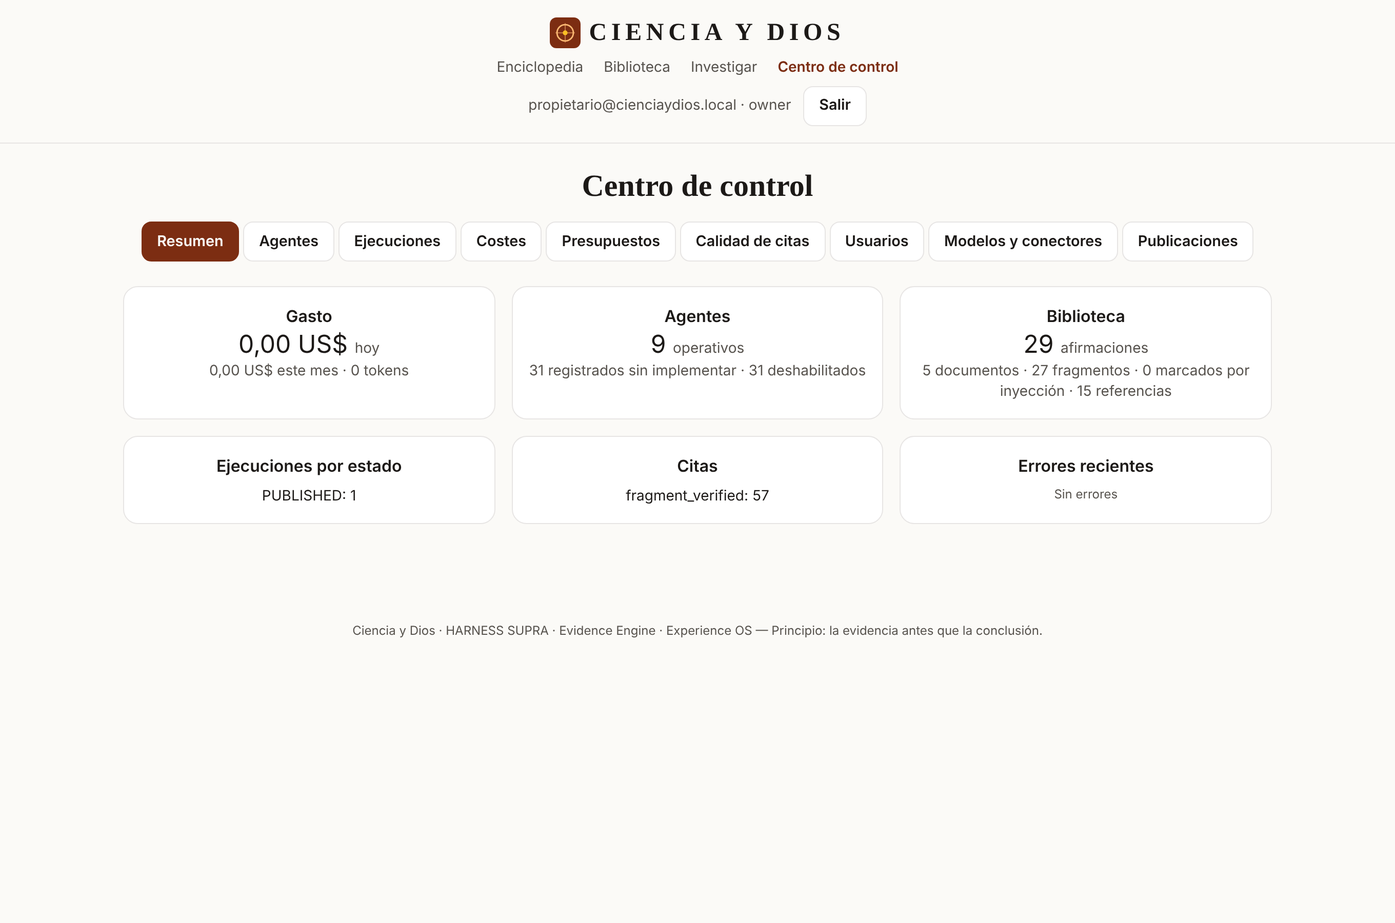
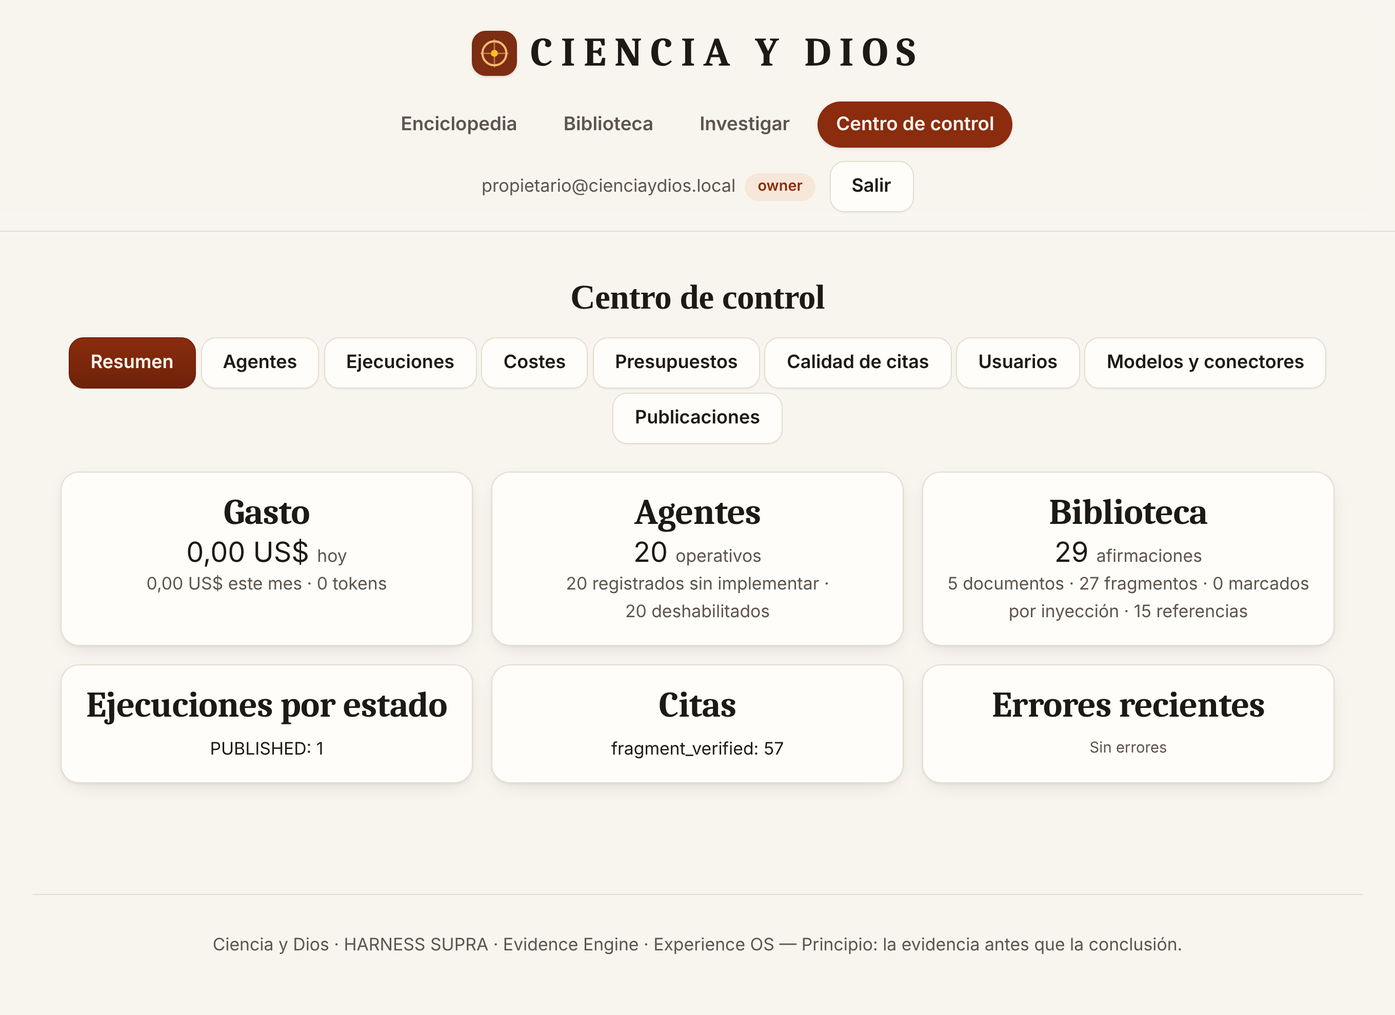
style(web): diseño más legible y cuidado en toda la web
- Letra base de 18 px (17 en móvil, 19 en pantallas grandes) y textos pequeños más legibles.
- Tipografía editorial para títulos y contenido, sans para la interfaz; más interlineado.
- Botones y campos más grandes (≥ 44 px), sombras suaves, foco visible y modo oscuro afinado.
- Cabecera fija con marca más grande y navegación en píldoras con la página activa.
- Página Entrar: subtítulo, selector «Ya tengo cuenta / Soy nuevo» y mensajes en recuadros.
- Portada con titular grande y tarjetas de áreas más amplias; etiquetas del mapa legibles.
- Capturas de la documentación actualizadas.

Claude-Session: https://claude.ai/code/session_012HkgCTLdcD8TMbisAVNTsT

diff --git a/apps/web/app/globals.css b/apps/web/app/globals.css
@@ -2,8 +2,68 @@
 
 @custom-variant dark (&:where(.dark, .dark *));
 
-/* Diseño centrado. Va en @layer base para que cualquier utilidad de Tailwind (text-left, justify-start…) pueda anularlo. */
+/* Textos pequeños más legibles en toda la web (sobre una base de 18 px) */
+@theme {
+  --text-xs: 0.8125rem;   --text-xs--line-height: 1.55;   /* ≈ 14.6 px */
+  --text-sm: 0.9375rem;   --text-sm--line-height: 1.6;    /* ≈ 16.9 px */
+  --text-base: 1rem;      --text-base--line-height: 1.7;  /* 18 px */
+  --text-lg: 1.15rem;     --text-lg--line-height: 1.65;
+}
+
+/* =====================================================================
+   CIENCIA Y DIOS — sistema visual
+   Tipografía editorial (serif) para el contenido y sans para la interfaz.
+   Todos los tamaños de Tailwind son rem: al subir la base a 18 px crece todo el texto.
+   ===================================================================== */
+
+:root {
+  --bg: #f8f5ef;           /* papel cálido */
+  --bg-2: #f1ebe0;
+  --fg: #1d1a16;
+  --muted: #5d554b;
+  --card: #fffdf9;
+  --line: #e4dccf;
+  --accent: #8a2c0d;       /* granate */
+  --accent-strong: #6e220a;
+  --accent-2: #c2770f;     /* oro */
+  --accent-soft: #f6e7d8;
+  --ring: #d99a2b;
+  --shadow: 0 1px 2px rgba(60, 40, 20, .06), 0 6px 20px -8px rgba(60, 40, 20, .18);
+  --shadow-lg: 0 2px 4px rgba(60, 40, 20, .06), 0 18px 40px -16px rgba(60, 40, 20, .28);
+  --radius: 1rem;
+  --font-serif: "Iowan Old Style", "Palatino Linotype", Palatino, "Book Antiqua", Georgia, Cambria, "Times New Roman", serif;
+  --font-sans: "Segoe UI Variable Text", "Segoe UI", system-ui, -apple-system, "Helvetica Neue", Arial, sans-serif;
+}
+@media (prefers-color-scheme: dark) {
+  :root {
+    --bg: #12100e; --bg-2: #1a1714; --fg: #f3eee7; --muted: #b3a99c; --card: #1d1a17; --line: #34302b;
+    --accent: #f0a26c; --accent-strong: #f7b98c; --accent-2: #f2c14e; --accent-soft: #3a2619; --ring: #f2c14e;
+    --shadow: 0 1px 2px rgba(0, 0, 0, .4), 0 8px 24px -10px rgba(0, 0, 0, .6);
+    --shadow-lg: 0 2px 4px rgba(0, 0, 0, .4), 0 20px 44px -18px rgba(0, 0, 0, .7);
+  }
+}
+
 @layer base {
+  html { font-size: 112.5%; -webkit-text-size-adjust: 100%; }          /* 18 px */
+  @media (min-width: 1600px) { html { font-size: 118.75%; } }          /* 19 px en pantallas grandes */
+  @media (max-width: 480px) { html { font-size: 106.25%; } }           /* 17 px en móvil */
+  html { background: var(--bg); color: var(--fg); }
+  body {
+    font-family: var(--font-serif); line-height: 1.7; text-rendering: optimizeLegibility;
+    -webkit-font-smoothing: antialiased;
+    background:
+      radial-gradient(1200px 500px at 50% -200px, var(--accent-soft), transparent 70%),
+      var(--bg);
+  }
+  h1, h2, h3 { font-family: var(--font-serif); color: var(--fg); letter-spacing: -0.01em; line-height: 1.2; text-wrap: balance; }
+  h1 { font-size: clamp(2.1rem, 1.4rem + 2.4vw, 3.2rem); font-weight: 700; }
+  h2 { font-size: clamp(1.5rem, 1.2rem + 1vw, 2rem); font-weight: 650; }
+  h3 { font-size: 1.3rem; font-weight: 650; }
+  p { text-wrap: pretty; }
+  a { text-underline-offset: 3px; }
+  ::selection { background: var(--accent-2); color: #1d1a16; }
+
+  /* Diseño centrado (las utilidades de Tailwind pueden anularlo) */
   main, footer { text-align: center; }
   main .flex-wrap, main [role="tablist"], main [role="group"] { justify-content: center; }
   main [class*="max-w-"] { margin-left: auto; margin-right: auto; }
@@ -12,28 +72,58 @@
   main table, main blockquote, main .list-disc, main .prose-left, main input, main textarea, main select { text-align: left; }
   main .list-disc { width: fit-content; max-width: 48rem; margin-left: auto; margin-right: auto; }
   main table { margin-left: auto; margin-right: auto; }
+  main table th { font-family: var(--font-sans); font-size: .82rem; text-transform: uppercase; letter-spacing: .06em; color: var(--muted); }
+  main table td, main table th { padding: .6rem .7rem !important; }
+  main table tr { border-color: var(--line); }
+  main blockquote { line-height: 1.65; }
 }
 
-:root {
-  --bg: #fbfaf7; --fg: #1c1917; --muted: #57534e; --card: #ffffff; --line: #e7e5e4; --accent: #7c2d12; --accent-2: #b45309;
-}
-@media (prefers-color-scheme: dark) {
-  :root { --bg: #0f0e0d; --fg: #f5f5f4; --muted: #a8a29e; --card: #1c1917; --line: #292524; --accent: #fdba74; --accent-2: #fbbf24; }
-}
-html { background: var(--bg); color: var(--fg); }
-body { font-family: ui-serif, Georgia, "Times New Roman", serif; }
-.ui { font-family: ui-sans-serif, system-ui, -apple-system, "Segoe UI", sans-serif; }
-.card { background: var(--card); border: 1px solid var(--line); border-radius: 0.9rem; }
+/* ---------- utilidades del proyecto ---------- */
+.ui { font-family: var(--font-sans); }
 .muted { color: var(--muted); }
 .accent { color: var(--accent); }
-.btn { font-family: ui-sans-serif, system-ui, sans-serif; display: inline-flex; align-items: center; gap: .4rem; border-radius: .6rem;
-  padding: .5rem .9rem; font-size: .9rem; font-weight: 600; border: 1px solid var(--line); background: var(--card); cursor: pointer; }
-.btn:hover { border-color: var(--accent); }
-.btn:disabled { opacity: .5; cursor: not-allowed; }
-.btn-primary { background: var(--accent); color: var(--bg); border-color: var(--accent); }
-.btn-primary:hover { filter: brightness(1.08); }
-.input { font-family: ui-sans-serif, system-ui, sans-serif; width: 100%; border: 1px solid var(--line); background: var(--card);
-  border-radius: .6rem; padding: .55rem .75rem; }
-.chip { font-family: ui-sans-serif, system-ui, sans-serif; font-size: .72rem; font-weight: 600; border-radius: 999px; padding: .12rem .55rem; display: inline-block; }
-:focus-visible { outline: 3px solid var(--accent-2); outline-offset: 2px; }
+
+.card {
+  background: var(--card); border: 1px solid var(--line); border-radius: var(--radius);
+  box-shadow: var(--shadow); transition: box-shadow .2s ease, transform .2s ease, border-color .2s ease;
+}
+a.card:hover, button.card:hover:not(:disabled) { box-shadow: var(--shadow-lg); border-color: color-mix(in srgb, var(--accent) 35%, var(--line)); transform: translateY(-2px); }
+
+.btn {
+  font-family: var(--font-sans); display: inline-flex; align-items: center; justify-content: center; gap: .45rem;
+  min-height: 2.75rem; padding: .6rem 1.15rem; border-radius: .8rem; font-size: 1rem; font-weight: 600; line-height: 1.2;
+  border: 1px solid var(--line); background: var(--card); color: var(--fg); cursor: pointer;
+  box-shadow: 0 1px 1px rgba(60, 40, 20, .05);
+  transition: background .15s ease, border-color .15s ease, transform .15s ease, box-shadow .15s ease;
+}
+.btn:hover:not(:disabled) { border-color: var(--accent); color: var(--accent); transform: translateY(-1px); box-shadow: var(--shadow); }
+.btn:active:not(:disabled) { transform: translateY(0); }
+.btn:disabled { opacity: .55; cursor: not-allowed; }
+.btn-primary {
+  background: linear-gradient(180deg, var(--accent), var(--accent-strong)); color: #fff8f0; border-color: var(--accent-strong);
+}
+.btn-primary:hover:not(:disabled) { color: #fff; filter: brightness(1.07); }
+@media (prefers-color-scheme: dark) { .btn-primary, .btn-primary:hover:not(:disabled) { color: #1d1208; } }
+
+.input {
+  font-family: var(--font-sans); width: 100%; min-height: 3rem; font-size: 1.05rem; color: var(--fg);
+  border: 1.5px solid var(--line); background: var(--card); border-radius: .8rem; padding: .7rem .95rem;
+  transition: border-color .15s ease, box-shadow .15s ease;
+}
+.input::placeholder { color: color-mix(in srgb, var(--muted) 75%, transparent); }
+.input:hover { border-color: color-mix(in srgb, var(--accent) 30%, var(--line)); }
+.input:focus { outline: none; border-color: var(--accent); box-shadow: 0 0 0 4px color-mix(in srgb, var(--ring) 30%, transparent); }
+textarea.input { line-height: 1.6; }
+select.input { width: auto; cursor: pointer; }
+
+.chip {
+  font-family: var(--font-sans); font-size: .8rem; font-weight: 600; line-height: 1.4; border-radius: 999px;
+  padding: .2rem .7rem; display: inline-block; vertical-align: middle;
+}
+
+/* Etiquetas de formulario */
+label.block { font-family: var(--font-sans); font-weight: 600; }
+label input[type="checkbox"], label input[type="radio"] { width: 1.15rem; height: 1.15rem; accent-color: var(--accent); }
+
+:focus-visible { outline: 3px solid var(--ring); outline-offset: 3px; border-radius: .4rem; }
 @media (prefers-reduced-motion: reduce) { * { transition: none !important; animation: none !important; } }

diff --git a/apps/web/app/entrar/page.tsx b/apps/web/app/entrar/page.tsx
@@ -7,7 +7,7 @@ import { useAuth } from "@/lib/auth";
 function explain(raw: string): string {
   const m = raw.toLowerCase();
   if (m.includes("invalid login credentials"))
-    return "Correo o contraseña incorrectos, o la cuenta todavía no existe. Si es tu primera vez, usa «Crear cuenta».";
+    return "Correo o contraseña incorrectos, o la cuenta todavía no existe. Si es tu primera vez, usa la pestaña «Soy nuevo».";
   if (m.includes("email not confirmed"))
     return "Tu cuenta existe pero falta confirmar el correo. Abre el enlace que te enviamos o pulsa «Reenviar confirmación».";
   if (m.includes("already registered")) return "Ya existe una cuenta con ese correo. Usa «Entrar».";
@@ -51,30 +51,39 @@ export default function Entrar() {
   });
 
   return (
-    <div className="mx-auto max-w-md">
-      <h1 className="text-3xl font-bold">{mode === "login" ? "Entrar" : "Crear cuenta"}</h1>
+    <div className="mx-auto max-w-lg">
+      <h1>{mode === "login" ? "Entrar" : "Crear cuenta"}</h1>
+      <p className="muted mt-2 text-lg">
+        {mode === "login" ? "Accede para investigar, guardar tu progreso y consultar tus fuentes."
+          : "Crea tu cuenta gratuita. Te enviaremos un correo para confirmarla."}
+      </p>
       {supabase ? (
         <>
-          <div className="ui mt-4 flex justify-center gap-2" role="tablist">
-            <button role="tab" aria-selected={mode === "login"} className={`btn ${mode === "login" ? "btn-primary" : ""}`}
-              onClick={() => { setMode("login"); setMsg(null); }} data-testid="tab-login">Ya tengo cuenta</button>
-            <button role="tab" aria-selected={mode === "signup"} className={`btn ${mode === "signup" ? "btn-primary" : ""}`}
-              onClick={() => { setMode("signup"); setMsg(null); }} data-testid="tab-signup">Soy nuevo</button>
+          <div className="ui mx-auto mt-6 inline-flex rounded-full border p-1" role="tablist"
+            style={{ borderColor: "var(--line)", background: "var(--bg-2)" }}>
+            {(["login", "signup"] as const).map((m) => (
+              <button key={m} role="tab" aria-selected={mode === m} data-testid={m === "login" ? "tab-login" : "tab-signup"}
+                onClick={() => { setMode(m); setMsg(null); }}
+                className="rounded-full px-5 py-2 text-base font-semibold transition"
+                style={mode === m ? { background: "var(--card)", color: "var(--accent)", boxShadow: "var(--shadow)" } : { color: "var(--muted)" }}>
+                {m === "login" ? "Ya tengo cuenta" : "Soy nuevo"}
+              </button>
+            ))}
           </div>
-          <form className="ui card mt-4 space-y-3 p-5" onSubmit={(e) => { e.preventDefault(); submit(); }}>
-            <label className="block text-sm">Correo
-              <input className="input mt-1" type="email" autoComplete="email" required value={email} onChange={(e) => setEmail(e.target.value.trim())} />
+          <form className="ui card mt-5 space-y-5 p-6 text-left sm:p-8" onSubmit={(e) => { e.preventDefault(); submit(); }}>
+            <label className="block text-base">Correo electrónico
+              <input className="input mt-2" type="email" placeholder="tu@correo.com" autoComplete="email" required value={email} onChange={(e) => setEmail(e.target.value.trim())} />
             </label>
-            <label className="block text-sm">Contraseña {mode === "signup" && <span className="muted">(mínimo 8 caracteres)</span>}
-              <input className="input mt-1" type={show ? "text" : "password"} autoComplete={mode === "login" ? "current-password" : "new-password"}
+            <label className="block text-base">Contraseña {mode === "signup" && <span className="muted font-normal">(mínimo 8 caracteres)</span>}
+              <input className="input mt-2" type={show ? "text" : "password"} placeholder="••••••••" autoComplete={mode === "login" ? "current-password" : "new-password"}
                 required minLength={8} value={password} onChange={(e) => setPassword(e.target.value)} />
             </label>
-            <label className="flex items-center justify-center gap-2 text-xs"><input type="checkbox" checked={show} onChange={(e) => setShow(e.target.checked)} /> Mostrar contraseña</label>
-            <button className="btn btn-primary w-full justify-center" disabled={busy} data-testid="submit-auth">
+            <label className="muted flex cursor-pointer items-center gap-2 text-sm"><input type="checkbox" checked={show} onChange={(e) => setShow(e.target.checked)} /> Mostrar contraseña</label>
+            <button className="btn btn-primary w-full py-3 text-lg" disabled={busy} data-testid="submit-auth">
               {busy ? "Un momento…" : mode === "login" ? "Entrar" : "Crear cuenta"}
             </button>
             {mode === "login" && (
-              <div className="flex flex-wrap justify-center gap-3 text-xs">
+              <div className="flex flex-wrap justify-center gap-x-5 gap-y-2 border-t pt-4 text-sm" style={{ borderColor: "var(--line)" }}>
                 <button type="button" className="underline" disabled={!email || busy}
                   onClick={() => run(async () => { await resendConfirmation(email); setMsg({ kind: "ok", text: `Correo de confirmación reenviado a ${email}.` }); })}>
                   Reenviar confirmación</button>
@@ -89,10 +98,12 @@ export default function Entrar() {
         <p className="ui muted mt-4 text-sm">Supabase Auth no está configurado en este despliegue (NEXT_PUBLIC_SUPABASE_URL).</p>
       )}
       {msg && <p role={msg.kind === "error" ? "alert" : "status"} data-testid="auth-message"
-        className={`ui mt-4 text-sm ${msg.kind === "error" ? "text-rose-700" : "text-emerald-700"}`}>{msg.text}</p>}
+        className={`ui mx-auto mt-5 max-w-lg rounded-xl border px-4 py-3 text-base ${msg.kind === "error"
+          ? "border-rose-300 bg-rose-50 text-rose-800 dark:border-rose-800 dark:bg-rose-950/40 dark:text-rose-200"
+          : "border-emerald-300 bg-emerald-50 text-emerald-800 dark:border-emerald-800 dark:bg-emerald-950/40 dark:text-emerald-200"}`}>{msg.text}</p>}
       {devAuth && (
-        <div className="ui card mt-6 p-5">
-          <p className="text-sm font-semibold">Modo desarrollo</p>
+        <div className="ui card mt-8 p-6">
+          <p className="font-semibold">Modo desarrollo</p>
           <p className="muted text-xs">Tokens locales firmados por la API; deshabilitados en staging y producción.</p>
           <div className="mt-3 flex flex-wrap gap-2">
             <button className="btn" data-testid="dev-owner" onClick={() => run(async () => { await signInDev("owner"); router.push("/investigar"); })}>Propietario</button>

diff --git a/apps/web/components/Nav.tsx b/apps/web/components/Nav.tsx
@@ -12,31 +12,40 @@ const LINKS = [
 export function Nav() {
   const { session, signOut } = useAuth();
   const path = usePathname();
+  const links = session?.role === "owner" ? [...LINKS, { href: "/admin", label: "Centro de control" }] : LINKS;
+  const isActive = (href: string) => (href === "/" ? path === "/" || path?.startsWith("/areas") : path?.startsWith(href));
   return (
-    <header className="ui border-b" style={{ borderColor: "var(--line)" }}>
-      <nav className="mx-auto flex max-w-6xl flex-col items-center gap-2 px-4 py-4 text-center" aria-label="Principal">
-        <Link href="/" className="flex items-center gap-2 text-2xl font-bold tracking-[0.18em]" style={{ fontFamily: "ui-serif, Georgia, serif" }}>
-          <img src="/icon.svg" alt="" width={30} height={30} /> CIENCIA Y DIOS
+    <header className="ui sticky top-0 z-30 border-b backdrop-blur-md"
+      style={{ borderColor: "var(--line)", background: "color-mix(in srgb, var(--bg) 82%, transparent)" }}>
+      <nav className="mx-auto flex max-w-6xl flex-col items-center gap-3 px-4 py-4 text-center" aria-label="Principal">
+        <Link href="/" className="flex items-center gap-3 text-[1.9rem] font-bold tracking-[0.2em] sm:text-[2.2rem]"
+          style={{ fontFamily: "var(--font-serif)" }}>
+          <img src="/icon.svg" alt="" width={44} height={44} className="rounded-xl shadow-sm" /> CIENCIA Y DIOS
         </Link>
-        <div className="flex flex-wrap items-center justify-center gap-x-5 gap-y-2">
-        {LINKS.map((l) => (
-          <Link key={l.href} href={l.href} aria-current={path === l.href ? "page" : undefined}
-            className={`text-sm ${path === l.href ? "accent font-semibold" : "muted hover:underline"}`}>{l.label}</Link>
-        ))}
-        {session?.role === "owner" && (
-          <Link href="/admin" className={`text-sm ${path?.startsWith("/admin") ? "accent font-semibold" : "muted hover:underline"}`}>
-            Centro de control
-          </Link>
-        )}
+        <div className="flex flex-wrap items-center justify-center gap-2">
+          {links.map((l) => {
+            const on = isActive(l.href);
+            return (
+              <Link key={l.href} href={l.href} aria-current={on ? "page" : undefined}
+                className={`rounded-full px-4 py-1.5 text-[1.02rem] font-semibold transition ${on
+                  ? "shadow-sm" : "muted hover:bg-[var(--accent-soft)] hover:text-[var(--accent)]"}`}
+                style={on ? { background: "var(--accent)", color: "var(--bg)" } : undefined}>
+                {l.label}
+              </Link>
+            );
+          })}
         </div>
-        <div className="flex flex-wrap items-center justify-center gap-3 text-sm">
+        <div className="flex flex-wrap items-center justify-center gap-3 text-[0.95rem]">
           {session ? (
             <>
-              <span className="muted" data-testid="session-email">{session.email ?? session.userId.slice(0, 8)} · {session.role}</span>
+              <span className="muted" data-testid="session-email">
+                {session.email ?? session.userId.slice(0, 8)}
+                <span className="chip ml-2" style={{ background: "var(--accent-soft)", color: "var(--accent)" }}>{session.role}</span>
+              </span>
               <button className="btn" onClick={signOut}>Salir</button>
             </>
           ) : (
-            <Link className="btn" href="/entrar">Entrar</Link>
+            <Link className="btn btn-primary" href="/entrar">Entrar</Link>
           )}
         </div>
       </nav>

diff --git a/apps/web/app/page.tsx b/apps/web/app/page.tsx
@@ -13,27 +13,27 @@ export default function Home() {
   useEffect(() => { api<Topic[]>("/v1/topics").then(setTopics).catch(() => setTopics([])); }, []);
   return (
     <div>
-      <section className="py-10 text-center">
-        <p className="ui accent text-sm font-semibold uppercase tracking-widest">Enciclopedia universal inteligente</p>
-        <h1 className="mt-2 text-4xl font-bold leading-tight md:text-5xl">CIENCIA Y DIOS</h1>
-        <p className="mt-3 text-2xl md:text-3xl">La evidencia antes que la conclusión.</p>
-        <p className="muted mx-auto mt-4 max-w-3xl text-lg">
+      <section className="py-8 text-center sm:py-14">
+        <p className="ui accent text-sm font-semibold uppercase tracking-[0.25em]">Enciclopedia universal inteligente</p>
+        <h1 className="mt-3 tracking-[0.08em]" style={{ fontSize: "clamp(2.6rem, 1.6rem + 4vw, 4.4rem)" }}>CIENCIA Y DIOS</h1>
+        <p className="accent mt-3 text-2xl italic md:text-3xl">La evidencia antes que la conclusión.</p>
+        <p className="muted mx-auto mt-5 max-w-3xl text-xl leading-relaxed">
           Investiga las grandes preguntas sobre Dios, el universo, la vida y la conciencia. Cada afirmación muestra
           su categoría epistémica, sus fuentes verificables, las posturas en disputa y lo que todavía no sabemos.
         </p>
-        <form className="ui mx-auto mt-6 flex max-w-2xl gap-2" onSubmit={(e) => { e.preventDefault(); router.push(`/biblioteca?q=${encodeURIComponent(q)}`); }}>
+        <form className="ui mx-auto mt-8 flex max-w-2xl flex-col gap-3 sm:flex-row" onSubmit={(e) => { e.preventDefault(); router.push(`/biblioteca?q=${encodeURIComponent(q)}`); }}>
           <input className="input" value={q} onChange={(e) => setQ(e.target.value)} placeholder="Buscar en la biblioteca: p. ej. «Códice de Alepo»" aria-label="Buscar" />
-          <button className="btn btn-primary" disabled={q.trim().length < 2}>Buscar</button>
+          <button className="btn btn-primary px-7" disabled={q.trim().length < 2}>Buscar</button>
         </form>
-        <div className="mt-4"><Link href="/investigar" className="ui underline">o lanza una investigación con el HARNESS →</Link></div>
+        <div className="mt-5"><Link href="/investigar" className="ui accent text-lg font-semibold underline">o lanza una investigación con el HARNESS →</Link></div>
       </section>
-      <h2 className="mb-4 text-center text-2xl font-semibold">Áreas de estudio</h2>
-      <div className="grid gap-3 sm:grid-cols-2 lg:grid-cols-3">
+      <h2 className="mb-6 text-center">Áreas de estudio</h2>
+      <div className="grid gap-5 sm:grid-cols-2 lg:grid-cols-3">
         {topics.map((t) => (
-          <Link key={t.slug} href={`/areas/${t.slug}`} className="card block p-4 text-center transition hover:-translate-y-0.5" data-testid="topic-card">
-            <h3 className="font-semibold">{t.title}</h3>
-            <p className="muted mt-1 text-sm">{t.summary}</p>
-            <p className="ui mt-3 text-xs">
+          <Link key={t.slug} href={`/areas/${t.slug}`} className="card block p-6 text-center" data-testid="topic-card">
+            <h3>{t.title}</h3>
+            <p className="muted mt-2 text-base leading-relaxed">{t.summary}</p>
+            <p className="ui mt-4 text-sm">
               {t.content_status === "empty"
                 ? <span className="muted">Sin contenido verificado todavía</span>
                 : <span className="accent font-semibold">{t.claims} afirmaciones con evidencia · semilla pendiente de revisión</span>}

diff --git a/apps/web/components/SchematicMap.tsx b/apps/web/components/SchematicMap.tsx
@@ -14,15 +14,15 @@ export function SchematicMap({ map, active, onSelect }: { map: MapSpec; active?:
       <svg viewBox={`0 0 ${W} ${H}`} className="w-full ui" role="img" aria-label="Mapa esquemático de lugares relacionados">
         <rect x="0" y="0" width={W} height={H} fill="transparent" />
         {gridLon.map((l) => (<g key={`lo${l}`}><line x1={x(l)} x2={x(l)} y1={pad} y2={H - pad} stroke="var(--line)" />
-          <text x={x(l) + 2} y={H - 8} fontSize="10" fill="var(--muted)">{l}°</text></g>))}
+          <text x={x(l) + 2} y={H - 8} fontSize="13" fill="var(--muted)">{l}°</text></g>))}
         {gridLat.map((l) => (<g key={`la${l}`}><line y1={y(l)} y2={y(l)} x1={pad} x2={W - pad} stroke="var(--line)" />
-          <text x={4} y={y(l) - 2} fontSize="10" fill="var(--muted)">{l}°</text></g>))}
+          <text x={4} y={y(l) - 2} fontSize="13" fill="var(--muted)">{l}°</text></g>))}
         {map.points.map((p) => {
           const on = !active || p.claim_ids.some((c) => active.has(c));
           return (
             <g key={p.name} onClick={() => onSelect?.(p.name)} style={{ cursor: onSelect ? "pointer" : undefined }} opacity={on ? 1 : 0.25}>
               <circle cx={x(p.lon)} cy={y(p.lat)} r={4 + Math.min(p.claim_ids.length, 6)} fill="var(--accent)" fillOpacity="0.35" stroke="var(--accent)" />
-              <text x={x(p.lon) + 9} y={y(p.lat) + 4} fontSize="11" fill="var(--fg)">{p.name}</text>
+              <text x={x(p.lon) + 9} y={y(p.lat) + 5} fontSize="14" fontWeight="600" fill="var(--fg)">{p.name}</text>
             </g>
           );
         })}

diff --git a/apps/web/app/layout.tsx b/apps/web/app/layout.tsx
@@ -18,8 +18,8 @@ export default function RootLayout({ children }: { children: React.ReactNode }) 
         <AuthProvider>
           <a href="#main" className="sr-only focus:not-sr-only ui p-2">Saltar al contenido</a>
           <Nav />
-          <main id="main" className="mx-auto max-w-6xl px-4 pb-24 pt-6">{children}</main>
-          <footer className="ui muted mx-auto max-w-6xl px-4 pb-10 text-xs">
+          <main id="main" className="mx-auto max-w-6xl px-4 pb-24 pt-10 sm:px-6">{children}</main>
+          <footer className="ui muted mx-auto max-w-6xl border-t px-4 pb-12 pt-8 text-sm" style={{ borderColor: "var(--line)" }}>
             Ciencia y Dios · HARNESS SUPRA · Evidence Engine · Experience OS — Principio: la evidencia antes que la conclusión.
           </footer>
         </AuthProvider>
